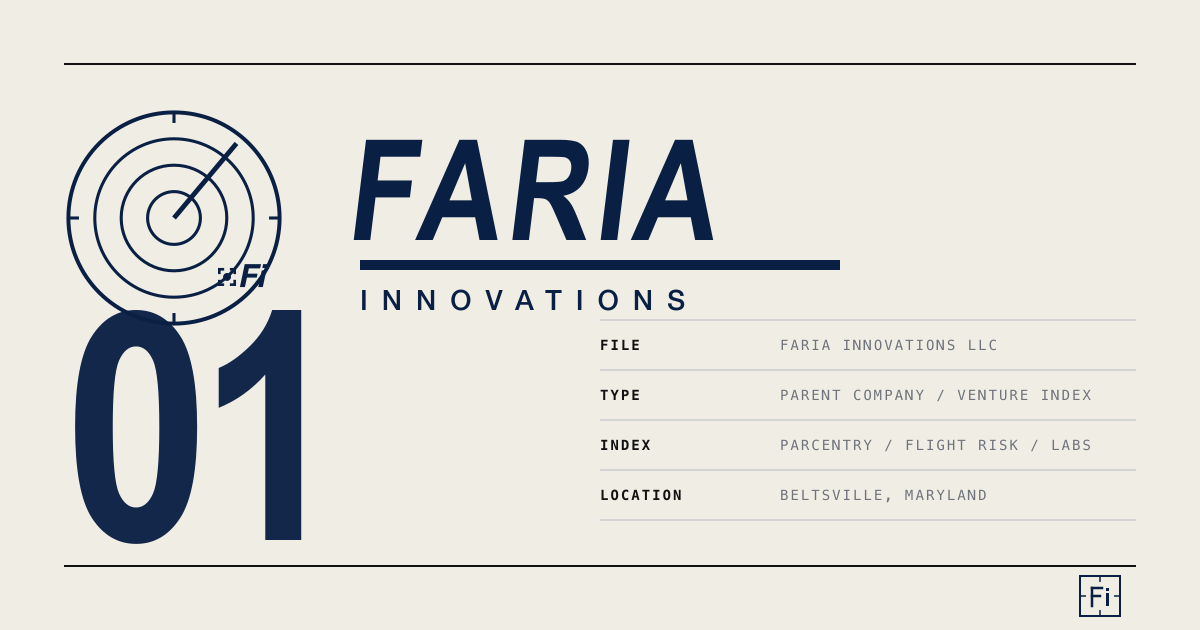
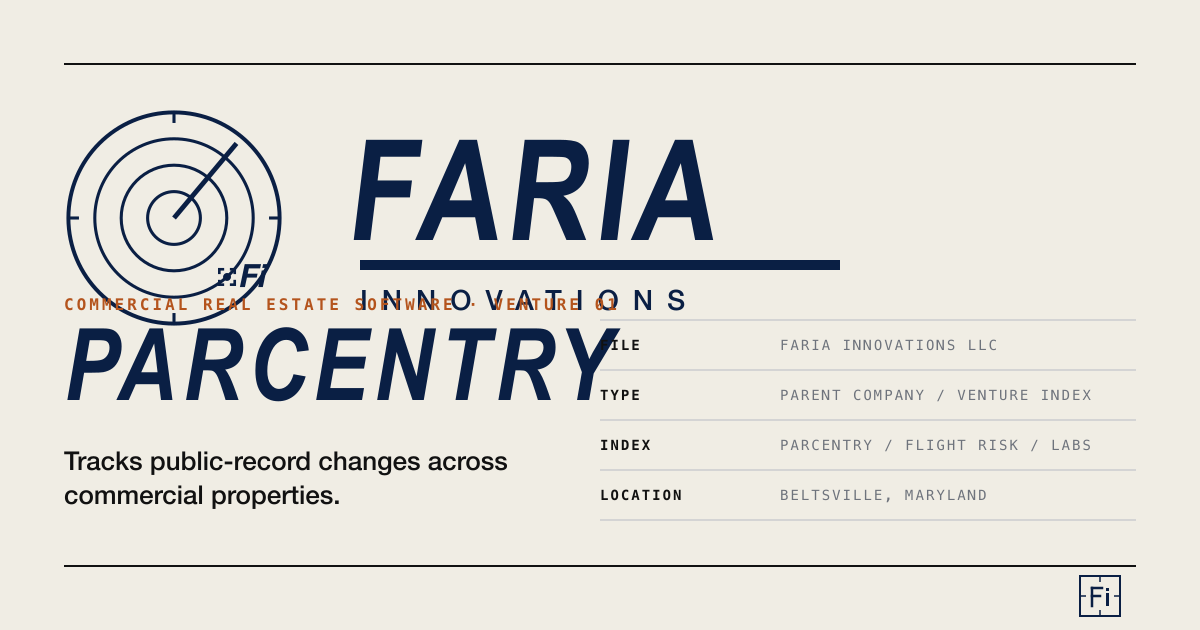
conversion + clarity pass: parcentry-led hero above index of ventures (lead + benefit + request demo / view sample report ctas + operational proof block), --accent locked to burnt sienna #b4541d, parcel-map caption, og updated to lead with parcentry positioning

Changed region(s): [[0.0308, 0.4524, 0.5242, 0.8746]]

diff --git a/src/styles/global.css b/src/styles/global.css
@@ -16,12 +16,16 @@
 @import '@fontsource/ibm-plex-mono/600.css';
 
 :root {
-  /* palette — locked. No red. */
+  /* palette — locked. */
   --navy:     #0A1F44;
   --ink:      #111111;
   --paper:    #F0EDE4;
   --gray:     #6E737C;
   --hairline: #B8BCC3;
+  /* Burnt Sienna — sole accent. Reserved for CTAs, tiny signal marks,
+     and selected rule highlights. Never on the wordmark, never as a
+     large surface, never on every link. */
+  --accent:   #B4541D;
 
   /* derived */
   --rule:     var(--ink);
@@ -802,4 +806,208 @@ summary:focus-visible {
     transition-duration: 0.001ms !important;
     scroll-behavior: auto !important;
   }
+}
+
+/* ============================================================ */
+/* v3.1 — conversion + clarity pass                             */
+/* parcentry-led hero, CTAs, parcel caption                     */
+/* ============================================================ */
+
+/* ------------------------------------------------------------ */
+/* CTAs — engineered, sharp, no SaaS rounding                   */
+/* ------------------------------------------------------------ */
+
+.cta {
+  display: inline-flex;
+  align-items: center;
+  gap: 0.55rem;
+  padding: 0.95rem 1.6rem;
+  font-family: var(--font-mono);
+  font-size: 0.74rem;
+  font-weight: 600;
+  letter-spacing: 0.18em;
+  text-transform: uppercase;
+  border: 2px solid var(--navy);
+  background: var(--navy);
+  color: var(--paper);
+  transition: background-color 140ms ease, border-color 140ms ease, color 140ms ease;
+  text-decoration: none;
+  line-height: 1;
+}
+.cta:hover,
+.cta:focus-visible {
+  background: var(--accent);
+  border-color: var(--accent);
+  color: var(--paper);
+}
+
+.cta--ghost {
+  background: transparent;
+  color: var(--navy);
+  border-color: transparent;
+  padding: 0.95rem 0;
+  position: relative;
+}
+.cta--ghost::after {
+  content: '';
+  position: absolute;
+  left: 0;
+  right: 0;
+  bottom: 0.55rem;
+  height: 2px;
+  background: var(--accent);
+  transform-origin: left;
+  transition: transform 220ms ease;
+}
+.cta--ghost:hover,
+.cta--ghost:focus-visible {
+  background: transparent;
+  border-color: transparent;
+  color: var(--accent);
+}
+
+/* ------------------------------------------------------------ */
+/* Parcentry-led hero (above the Index of Ventures)             */
+/* ------------------------------------------------------------ */
+
+.parcentry-hero {
+  padding-block: clamp(3rem, 6vw, 4.5rem);
+  border-bottom: 1px solid var(--hairline);
+}
+.parcentry-hero-grid {
+  display: grid;
+  grid-template-columns: 1fr;
+  gap: 2.5rem;
+  align-items: start;
+}
+@media (min-width: 860px) {
+  .parcentry-hero-grid {
+    grid-template-columns: minmax(0, 2fr) minmax(0, 1fr);
+    gap: 3.5rem;
+  }
+}
+
+.parcentry-hero-category {
+  font-family: var(--font-mono);
+  font-size: 0.7rem;
+  font-weight: 600;
+  letter-spacing: 0.18em;
+  text-transform: uppercase;
+  color: var(--gray);
+  margin: 0 0 1rem;
+  display: flex;
+  flex-wrap: wrap;
+  gap: 0.35rem 0.8rem;
+  align-items: baseline;
+}
+.parcentry-hero-category .accent-tick { color: var(--accent); }
+
+.parcentry-hero-title {
+  font-family: var(--font-display);
+  font-weight: 900;
+  font-style: italic;
+  font-size: clamp(2.5rem, 5.5vw, 4.25rem);
+  letter-spacing: 0.04em;
+  text-transform: uppercase;
+  line-height: 0.98;
+  margin: 0 0 1.25rem;
+  color: var(--navy);
+}
+
+.parcentry-hero-lead {
+  font-family: var(--font-text);
+  font-size: clamp(1.05rem, 1.5vw, 1.25rem);
+  line-height: 1.4;
+  color: var(--ink);
+  margin: 0 0 1rem;
+  max-width: 38ch;
+  font-weight: 500;
+}
+
+.parcentry-hero-benefit {
+  font-family: var(--font-text);
+  font-size: 1.02rem;
+  line-height: 1.6;
+  color: var(--gray);
+  margin: 0 0 2rem;
+  max-width: 58ch;
+}
+
+.parcentry-hero-ctas {
+  display: flex;
+  flex-wrap: wrap;
+  gap: 1rem 1.5rem;
+  align-items: center;
+}
+
+/* Operational proof — sits to the right on desktop, below on mobile */
+.parcentry-hero-proof {
+  border-top: 1px solid var(--hairline);
+  padding-top: 1.1rem;
+}
+@media (min-width: 860px) {
+  .parcentry-hero-proof {
+    border-top: 0;
+    border-left: 1px solid var(--hairline);
+    padding-top: 0;
+    padding-left: 1.75rem;
+  }
+}
+.proof-label {
+  font-family: var(--font-mono);
+  font-size: 0.66rem;
+  font-weight: 600;
+  letter-spacing: 0.18em;
+  text-transform: uppercase;
+  color: var(--accent);
+  margin: 0 0 0.95rem;
+  display: flex;
+  align-items: baseline;
+  gap: 0.45rem;
+}
+.proof-list {
+  list-style: none;
+  padding: 0;
+  margin: 0;
+  display: flex;
+  flex-direction: column;
+  gap: 0.6rem;
+}
+.proof-list li {
+  font-family: var(--font-mono);
+  font-size: 0.78rem;
+  letter-spacing: 0.14em;
+  text-transform: uppercase;
+  color: var(--ink);
+  font-weight: 500;
+  padding-bottom: 0.55rem;
+  border-bottom: 1px solid var(--hairline);
+}
+.proof-list li:last-child {
+  border-bottom: 0;
+  padding-bottom: 0;
+}
+
+/* ------------------------------------------------------------ */
+/* Parcel map caption                                            */
+/* ------------------------------------------------------------ */
+
+.parcel-map figcaption,
+figcaption.parcel-map-caption {
+  margin-top: 0.85rem;
+  font-family: var(--font-mono);
+  font-size: 0.7rem;
+  letter-spacing: 0.1em;
+  text-transform: uppercase;
+  color: var(--gray);
+  max-width: 56ch;
+  line-height: 1.5;
+  display: block;
+}
+.parcel-map figcaption strong,
+figcaption.parcel-map-caption strong {
+  color: var(--ink);
+  font-weight: 600;
+  display: block;
+  margin-bottom: 0.2rem;
 }
